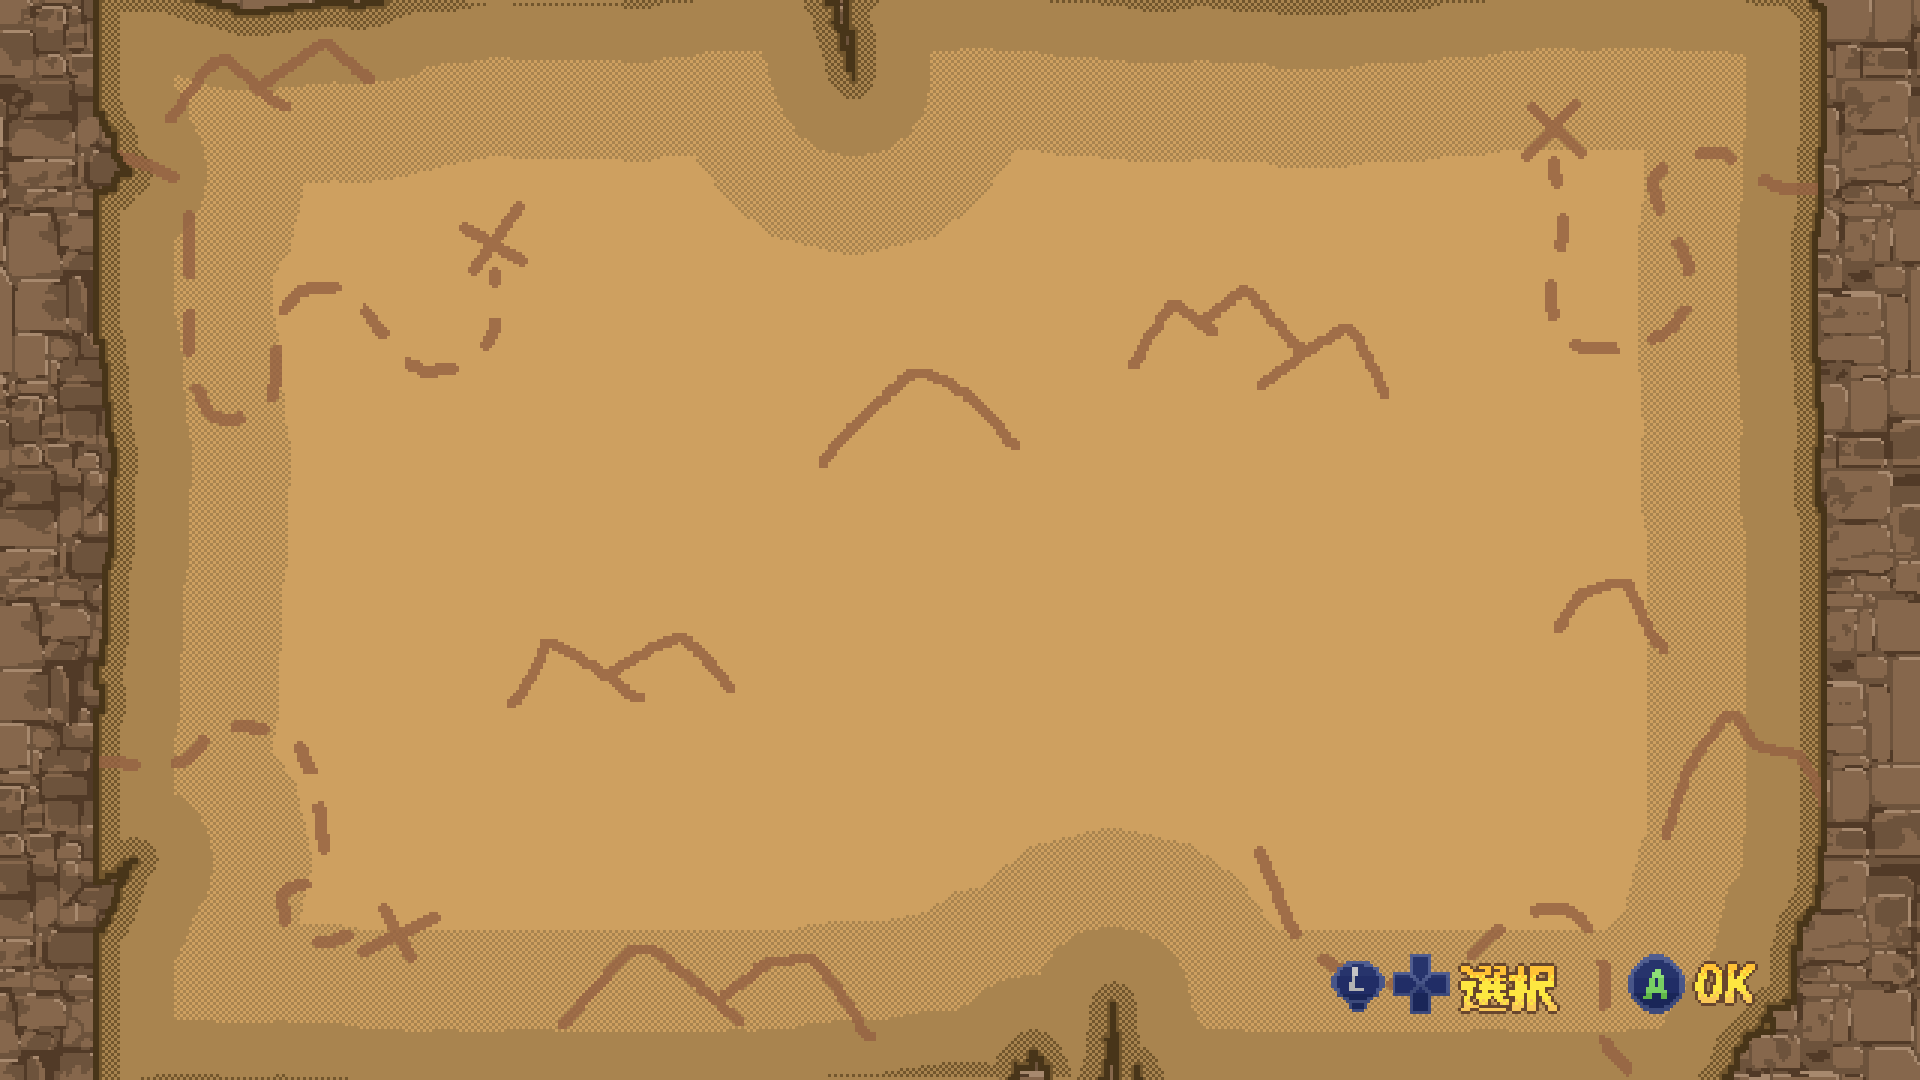
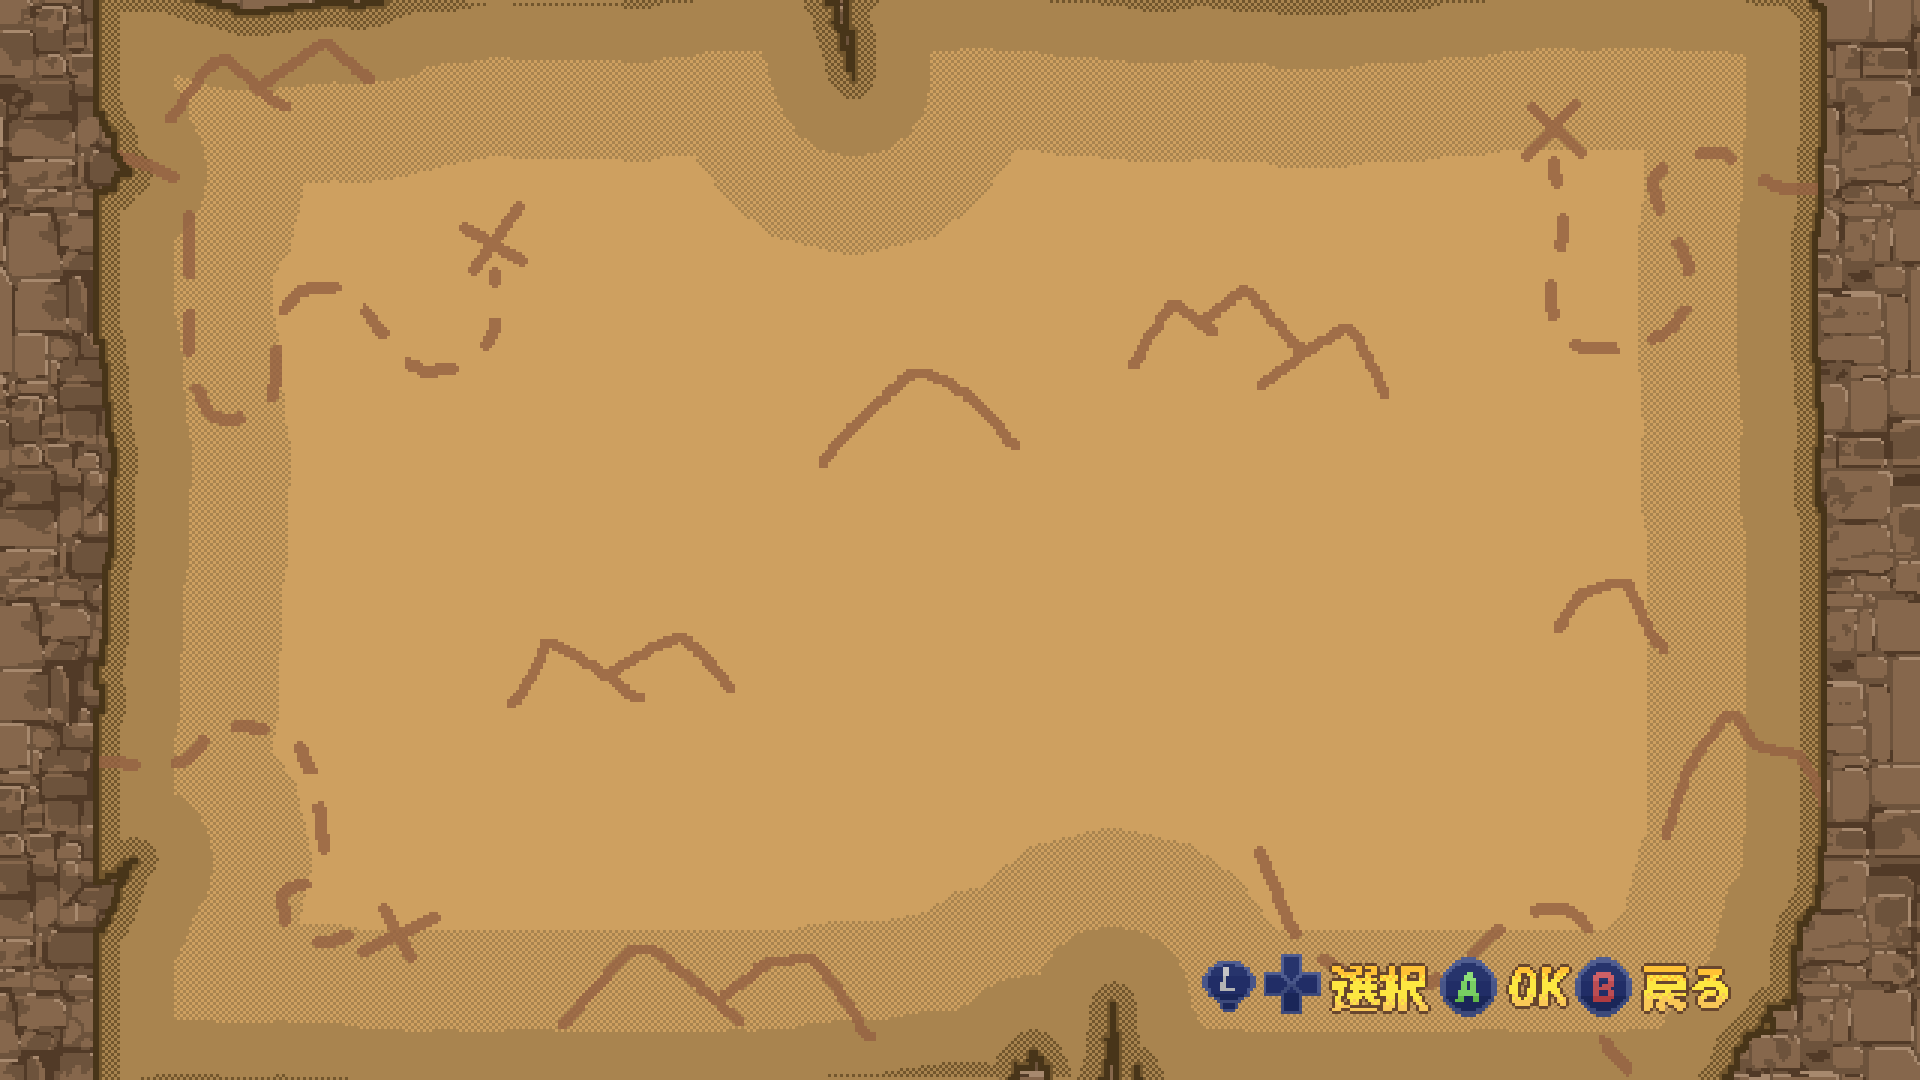
画像差し替え、モードセレクトの修正

Changed region(s): [[0.625, 0.8861, 0.9375, 0.9472]]

diff --git a/Sources/PlayStyleSelector.cpp b/Sources/PlayStyleSelector.cpp
@@ -153,9 +153,9 @@ bool PlayStyleSelector::EndMove()
 void PlayStyleSelector::Choice()
 {
 #if defined(DEBUG) | defined(_DEBUG)
-	if ((pad[0].bAt || GetAsyncKeyState('N') & 1) && !selectMoveLeft && !selectMoveRight)
+	if ((pad[0].bAt || GetAsyncKeyState('N') & 1) && !selectMoveLeft && !selectMoveRight && styleNum < styleNumMax - 1)
 #else
-	if(pad[0].bAt && !selectMoveLeft && !selectMoveRight)
+	if(pad[0].bAt && !selectMoveLeft && !selectMoveRight && styleNum < styleNumMax - 1)
 #endif
 	{
 		pAudio->Play(Sound::Get()->seHandle[Sound::SE::OK].get());
